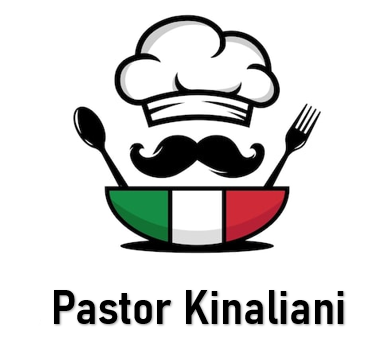
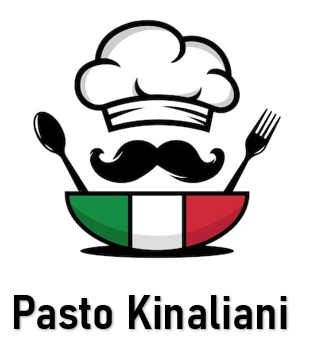
Se completo el formulario de registro y olvido contraseña

Changed region(s): [[0.0846, 0.0292, 0.8746, 0.758], [0.0282, 0.8163, 0.9028, 0.9621], [0.5925, 0.4082, 0.6207, 0.4373]]

diff --git a/src/features/auth/pages/AuthPage.jsx b/src/features/auth/pages/AuthPage.jsx
@@ -1,57 +1,58 @@
 import { useState } from "react";
 import { LoginForm } from "../components/LoginForm";
+import { RegisterForm } from "../components/RegisterForm"; 
+import { ForgotPassForm } from "../components/ForgotPassForm"; 
 
 const AuthPage = () => {
     const [isLogin, setIsLogin] = useState(true);
     const [isForgot, setIsForgot] = useState(false);
 
-    return(
+    // Funciones para cambiar de vista
+    const handleToRegister = () => {
+        setIsLogin(false);
+        setIsForgot(false);
+    };
 
-<div className="bg-gradient-to-r from-[#B83B04] via-[#F24E1E] via-[#4A2800] to-[#FEE8D2] min-h-screen flex items-center justify-center">
-          
-            <div className="w-full max-w-xl bg-white rounded-xl shadow-lg 
-            border border-gray-200 p-6 md: p-10">
-            
+    const handleToLogin = () => {
+        setIsLogin(true);
+        setIsForgot(false);
+    };
+
+    const handleToForgot = () => {
+        setIsForgot(true);
+    };
+
+    return (
+        <div className="bg-gradient-to-r from-[#B83B04] via-[#F24E1E] via-[#4A2800] to-[#FEE8D2] min-h-screen flex items-center justify-center">
+            <div className="w-full max-w-xl bg-white rounded-xl shadow-lg border border-gray-200 p-6 md:p-10">
+                
                 {/* Logo */}
                 <div className="flex justify-center mb-6">
-                        <img
-                        src="/src/assets/img/pastor_kinaliani.png"
-                        alt="Kinal Sport"
-                        className="h-20 w-auto"
-                        />
-                    </div>
+                    <img src="/src/assets/img/pastor_kinaliani.png" alt="Logo" className="h-20 w-auto" />
+                </div>
 
-                    <div className=" text-center mb-6">
-
-                        <h1 className="text-2xl lg:text-3xl font-bold
-                        text-gray-900 mb-2">
-
-                        {isForgot
-                        ? "Recuperar Contraseña"
-                        :isLogin
-                        ? "Bienvenido de nuevo"
-                        : "Crea tu cuenta"
-                        }
+                <div className="text-center mb-6">
+                    <h1 className="text-2xl lg:text-3xl font-bold text-gray-900 mb-2">
+                        {isForgot ? "Recuperar Contraseña" : isLogin ? "Bienvenido de nuevo" : "Crea tu cuenta"}
                     </h1>
-                    <p className="text-gray-600 text-base max-w-md
-                    mx-auto">
-                        {isForgot
-                        ? "Ingresa tu correo electrónico para recuperar tu contraseña"
-                        :isLogin
-                        ?"Ingresa a tu cuenta de administrador de Pastor Kinaliani"
-                        :"Registrate como administrador de Pastor Kinaliani"
-                        }
+                    <p className="text-gray-600 text-base max-w-md mx-auto">
+                        {isForgot 
+                            ? "Ingresa tu correo electrónico para recuperar tu contraseña" 
+                            : isLogin 
+                                ? "Ingresa a tu cuenta de administrador de Pastor Kinaliani" 
+                                : "Regístrate como administrador de Pastor Kinaliani"}
                     </p>
                 </div>
-            
-            {isForgot
-            ?"Formulario"
-            :<LoginForm />
-            
-            }
 
+                {/* Renderizado condicional */}
+                {isForgot ? (
+                    <ForgotPassForm onSwitchLogin={handleToLogin} />
+                ) : isLogin ? (
+                    <LoginForm onSwitchRegister={handleToRegister} onSwitchForgot={handleToForgot} />
+                ) : (
+                    <RegisterForm onSwitchLogin={handleToLogin} />
+                )}
             </div>
-
         </div>
     );
 };

diff --git a/src/features/auth/components/RegisterForm.jsx b/src/features/auth/components/RegisterForm.jsx
@@ -1,41 +1,81 @@
-export const RegisterForm = () => {
+export const RegisterForm = ({ onSwitchLogin }) => {
     return (
-        <form className="space-y-4">
+        <form className="space-y-4 animate-fadeIn">
+            {/* Fila 1: Nombre y Apellido */}
             <div className="grid grid-cols-1 md:grid-cols-2 gap-4">
                 <div>
                     <label className="block text-sm font-medium text-gray-700 mb-1.5">Nombre</label>
-                    <input type="text" className="w-full px-3 py-2 text-sm border border-gray-300 rounded-lg focus:ring-2 focus:ring-blue-500 outline-none" placeholder="Ej. Juan" />
+                    <input 
+                        type="text" 
+                        maxLength={50}
+                        className="w-full px-3 py-2 text-sm border border-gray-300 rounded-lg focus:ring-2 focus:ring-orange-500 outline-none" 
+                        placeholder="Ej. Juan" 
+                        required 
+                    />
                 </div>
                 <div>
                     <label className="block text-sm font-medium text-gray-700 mb-1.5">Apellido</label>
-                    <input type="text" className="w-full px-3 py-2 text-sm border border-gray-300 rounded-lg focus:ring-2 focus:ring-blue-500 outline-none" placeholder="Ej. Pérez" />
+                    <input 
+                        type="text" 
+                        maxLength={50}
+                        className="w-full px-3 py-2 text-sm border border-gray-300 rounded-lg focus:ring-2 focus:ring-orange-500 outline-none" 
+                        placeholder="Ej. Pérez" 
+                        required 
+                    />
                 </div>
             </div>
 
+            {/* Fila 2: DPI y Puesto */}
             <div className="grid grid-cols-1 md:grid-cols-2 gap-4">
                 <div>
-                    <label className="block text-sm font-medium text-gray-700 mb-1.5">Teléfono</label>
-                    <input type="tel" className="w-full px-3 py-2 text-sm border border-gray-300 rounded-lg focus:ring-2 focus:ring-blue-500 outline-none" placeholder="[phone redacted]" />
+                    <label className="block text-sm font-medium text-gray-700 mb-1.5">DPI</label>
+                    <input 
+                        type="text" 
+                        maxLength={20}
+                        className="w-full px-3 py-2 text-sm border border-gray-300 rounded-lg focus:ring-2 focus:ring-orange-500 outline-none" 
+                        placeholder="CUI/DPI" 
+                        required 
+                    />
                 </div>
                 <div>
-                    <label className="block text-sm font-medium text-gray-700 mb-1.5">Usuario</label>
-                    <input type="text" className="w-full px-3 py-2 text-sm border border-gray-300 rounded-lg focus:ring-2 focus:ring-blue-500 outline-none" placeholder="jperez123" />
+                    <label className="block text-sm font-medium text-gray-700 mb-1.5">Puesto</label>
+                    <input 
+                        type="text" 
+                        maxLength={100}
+                        className="w-full px-3 py-2 text-sm border border-gray-300 rounded-lg focus:ring-2 focus:ring-orange-500 outline-none" 
+                        placeholder="Ej. Administrador" 
+                        required 
+                    />
                 </div>
             </div>
 
+            {/* Sueldo (Ocupa todo el ancho o puedes ponerlo a la par de otro si agregas más) */}
             <div>
-                <label className="block text-sm font-medium text-gray-700 mb-1.5">Correo Electrónico</label>
-                <input type="email" className="w-full px-3 py-2 text-sm border border-gray-300 rounded-lg focus:ring-2 focus:ring-blue-500 outline-none" placeholder="[email redacted]" />
+                <label className="block text-sm font-medium text-gray-700 mb-1.5">Sueldo (Q)</label>
+                <input 
+                    type="number" 
+                    step="0.01"
+                    min="0"
+                    className="w-full px-3 py-2 text-sm border border-gray-300 rounded-lg focus:ring-2 focus:ring-orange-500 outline-none" 
+                    placeholder="0.00" 
+                    required 
+                />
             </div>
 
-            <div>
-                <label className="block text-sm font-medium text-gray-700 mb-1.5">Contraseña</label>
-                <input type="password" name="password" className="w-full px-3 py-2 text-sm border border-gray-300 rounded-lg focus:ring-2 focus:ring-blue-500 outline-none" placeholder="••••••••" />
-            </div>
-
-            <button className="w-full bg-main-blue hover:opacity-90 text-white font-medium py-2.5 px-4 rounded-lg transition-colors duration-200 text-sm mt-2">
-                Crear Cuenta
+            <button className="w-full bg-orange-500 hover:bg-orange-600 text-white font-medium py-2.5 px-4 rounded-lg transition-colors duration-200 text-sm mt-2">
+                Registrarse
             </button>
+
+            <p className="text-center text-sm text-gray-600 mt-4">
+                ¿Ya tienes cuenta?{' '}
+                <button 
+                    type="button" 
+                    onClick={onSwitchLogin} 
+                    className="text-blue-600 hover:underline font-medium"
+                >
+                    Inicia sesión
+                </button>
+            </p>
         </form>
     );
 }

diff --git a/src/features/auth/components/LoginForm.jsx b/src/features/auth/components/LoginForm.jsx
@@ -1,51 +1,30 @@
-export const LoginForm = () => {
-
-    return(
+export const LoginForm = ({ onSwitchRegister, onSwitchForgot }) => {
+    return (
         <form className="space-y-5">
+            {/* ... inputs de email y contraseña igual ... */}
             <div>
-                <label htmlFor="block text-sm medium text-gray-800
-                mb-1.5">
-                    Email o Usuario
-                </label>
-
-                <input className="w-full px-3 py-2 text-sm
-                border border-gray-300 rounded-lg focus:ring-2
-                focus:ring-blue-500" />
+                <label className="block text-sm font-medium text-gray-800 mb-1.5">Email o Usuario</label>
+                <input className="w-full px-3 py-2 text-sm border border-gray-300 rounded-lg focus:ring-2 focus:ring-orange-500 outline-none" />
             </div>
 
             <div>
-                <label className="block text-sm font-medium
-                text-gray-700 mb-1.5">
-                    Contraseña
-                </label>
-
-                <input className="w-full px-3 py-2 text-sm
-                border border-gray-300 rounded-lg focus:ring-2
-                focus:ring-blue-500" />
+                <label className="block text-sm font-medium text-gray-700 mb-1.5">Contraseña</label>
+                <input type="password" className="w-full px-3 py-2 text-sm border border-gray-300 rounded-lg focus:ring-2 focus:ring-orange-500 outline-none" />
             </div>
 
-            <button className="w-full bg-orange-500 hover:bg-orange-600
-            text-white font-medium py-2.5 px-4 rounded-lg 
-            transition-colors duration-200 text-sm">
-                Iniciar Sesion
+            <button className="w-full bg-orange-500 hover:bg-orange-600 text-white font-medium py-2.5 px-4 rounded-lg transition-colors duration-200 text-sm">
+                Iniciar Sesión
             </button>
 
             <div className="flex justify-between text-sm mt-2">
-        <button
-          type="button"
-          className="text-blue-600 hover:underline"
-        >
-          ¿Olvidaste tu contraseña?
-        </button>
+                <button type="button" onClick={onSwitchForgot} className="text-blue-600 hover:underline">
+                    ¿Olvidaste tu contraseña?
+                </button>
 
-        <button
-          type="button"
-          className="text-blue-600 hover:underline"
-        >
-          Registrarse
-        </button>
-        </div>
+                <button type="button" onClick={onSwitchRegister} className="text-blue-600 hover:underline">
+                    Registrarse
+                </button>
+            </div>
         </form>
     );
-}
-
+};

diff --git a/src/features/auth/components/ForgotPassForm.jsx b/src/features/auth/components/ForgotPassForm.jsx
@@ -1,0 +1,34 @@
+export const ForgotPassForm = ({ onSwitchLogin }) => {
+    return (
+        <form className="space-y-6 animate-fadeIn">
+            <div>
+                <label className="block text-sm font-medium text-gray-700 mb-1.5">
+                    Correo Electrónico
+                </label>
+                <input 
+                    type="email" 
+                    className="w-full px-3 py-2 text-sm border border-gray-300 rounded-lg focus:ring-2 focus:ring-orange-500 outline-none" 
+                    placeholder="[email redacted]"
+                    required 
+                />
+                <p className="mt-2 text-xs text-gray-500">
+                    Te enviaremos un enlace para que puedas restablecer tu contraseña.
+                </p>
+            </div>
+
+            <button className="w-full bg-orange-500 hover:bg-orange-600 text-white font-medium py-2.5 px-4 rounded-lg transition-colors duration-200 text-sm">
+                Enviar enlace de recuperación
+            </button>
+
+            <div className="text-center">
+                <button 
+                    type="button" 
+                    onClick={onSwitchLogin} 
+                    className="text-sm text-blue-600 hover:underline font-medium"
+                >
+                    Volver al inicio de sesión
+                </button>
+            </div>
+        </form>
+    );
+};